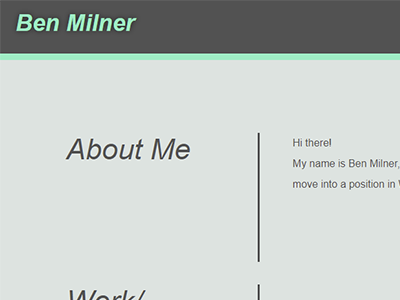
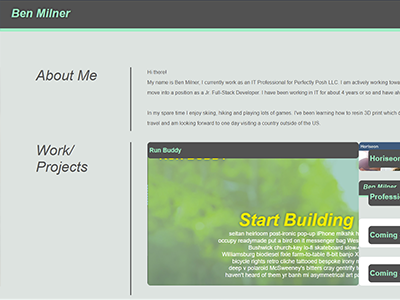
finished styling the work section

diff --git a/assets/css/style.css b/assets/css/style.css
@@ -16,6 +16,7 @@ body {
     background-color: #dce3e0;
 }
 
+/* header */
 header {
     display: flex;
     justify-content: space-between;
@@ -70,6 +71,7 @@ header nav ul li a:hover {
     text-decoration: none;
 }
 
+/* main */
 main  {
     display: flex;
     flex-direction: column;
@@ -92,6 +94,7 @@ main  {
     border-right: solid 3px;
 }
 
+/* content sections */
 #about-me, #work, #contact {
     display: flex;
     margin: 1%;
@@ -117,66 +120,84 @@ main  {
     box-shadow: 0 0 10px rgba(0, 0, 0, 0.5);
 }
 
-/* #work {
+.big-title {
+    display:flex;
+    flex-wrap: wrap;
+    background-size: 120%;
+    justify-content: left;
+    align-items: center;
+    padding: 0 0 10px 30px;
+    font-size:35px;
+    border: solid var(--secondary-color) 3px;
+    border-radius: 10px;
+}
+
+.beeg-title h3 {
+    display: flex;
+    background-color: var(--tertiary-color);
+    padding: 10px;
+    border-radius: 10px;
+    font-size: 30px;
+}
+
+.beeg-card {
+    width: 75%;
+    margin-bottom: 30px;
+    background-image: url("../images/run-buddy.png");
+    border-radius: 10px;
+}
+
+#work h3, h4, a {
+    color: var(--primary-color);
+    text-decoration: none;
+}
+
+.work-cards {
     display: flex;
     flex-wrap: wrap;
-}
-
-.work-content {
-    display: flex;
     justify-content: space-between;
+    width: 75%;
+    padding: 1%;
 }
 
-.images {
-    display: flex;
-    justify-content: flex-end;
+.work-cards h3 {
+    background-color: var(--tertiary-color);
+    padding: 5px;
+    border-radius: 10px;
 }
 
-.beeg {
-    display: flex;
-    align-self: center;
-    width: 600px;
-    height: 400px;
-}
-
-.smol {
-    display: flex;
+.title {
+    display:flex;
+    flex-wrap: wrap;
     width: 400px;
-    height: 300px;
+    height: 150px;
+    padding: 10px;
+    justify-content: left;
+    align-items:center;
+    font-size: 20px;
+    border-radius: 10px;
+    margin-bottom: 30px;
 }
 
-.smol div {
-    align-self: center;
-    margin: 2%;
+#card1{
+    background-image: url("../images/horiseon.png");
+    background-size: 100%;
 }
 
-#work img{
-    display: flex;
-    align-self: center;
-    flex-flow: row wrap;
-    border: solid 4px var(--secondary-color);
-    border-radius: 20px;
-    box-shadow: 0 0 10px rgba(0, 0, 0, 0.5);
-    opacity: 50%;
-    margin: 0 30px;
+#card2{
+    background-image: url("../images/professional-portfolio.png");
+    background-size: 100%;
 }
 
-#work img:hover {
-    opacity: 100%;
+#card3{
+    background-color: white;
+    background-size: 100%;
 }
 
-.info p {
-    text-decoration: none;
+#card4{
+    background-color: white;
+    background-size: 100%;
 }
-
-.info p a {
-    color: inherit;
-    text-decoration: none;
-}
-
-.info p a:hover {
-    text-decoration: underline;
-} */
 
 footer {
     display: flex;
@@ -187,8 +208,23 @@ footer {
     padding: 40px 35px;
 }
 
-/* screen size smaller than 970px */
-@media screen and (max-width: 970px){
+#contact .content {
+    display: flex;
+    padding: 3%;
+    justify-content: space-between;
+}
+
+#contact .content a h4 {
+    color: var(--primary-color);
+    background-color: var(--tertiary-color);
+    border-radius: 10px;
+    margin: 30%;
+    font-size: 30px;
+    
+}
+
+/* media queries */
+@media screen and (max-width: 980px){
     header {
         padding-bottom: 0;
         justify-content: center;
@@ -234,4 +270,18 @@ footer {
     #about-me .bio p {
         margin: 3%;
     }
+
+    .beeg-card, .work-cards {
+        margin-top: 2%;
+    }
 }
+
+@media screen and (max-width: 768px) {
+
+}
+
+@media screen and (max-width: 575px) {
+
+}
+
+/* media queries end */

diff --git a/index.html b/index.html
@@ -56,7 +56,7 @@
             <img src="./assets/images/ben-milner.png" alt="Ben Milner" height="200px" width="200px"/>
         </div>
     </section>
-    <!-- about me section end -->
+    <!-- about me end -->
 
     <!-- work section -->
     <section id="work">
@@ -66,7 +66,7 @@
 
         <!-- larger project -->
         <div class="content">
-            <div class="beeg">
+            <div class="beeg-card">
                 <a href="https://bmilner88.github.io/run-buddy/">
                     <div class="beeg-title">
                         <h3>Run Buddy</h3>
@@ -99,56 +99,21 @@
             </div>
         </div>
     </section>
-    <!-- work section end -->
+    <!-- work end -->
 
-
-        <!-- <div class="work-content">
-            <div class="images">
-                <div class="beeg">
-                    <div>
-                        <a href="https://bmilner88.github.io/run-buddy/">
-                            <img src="./assets/images/run-buddy.png" alt="Run Buddy Project Page" />
-                        </a>
-                    </div>
-                </div>
-    
-                <div class="smol">
-                    <div>
-                        <a href="https://bmilner88.github.io/c1-horiseon/">
-                            <img src="./assets/images/horiseon.png" alt="Horiseon Project Page" />
-                        </a>
-                    </div>
-        
-                    <div>
-                        <a href="https://bmilner88.github.io/c2-professional-portfolio/">
-                            <img src="./assets/images/professional-portfolio.png" alt="Professional Portfolio Project Page" />
-                        </a>
-                    </div>
-                </div>
-            </div>
-        </div> -->
-    
-
+    <!-- contact section -->
     <section id="contact">
         <div class="section-title">
             <h2>Contact</br>Info</h2>
         </div>
 
-        <div class="info">
+        <div class="content">
             <a href="mailto:bmilner88@gmail.com"><h4>Email</h4></a>
             <a href="https://github.com/Bmilner88"><h4>GitHub</h4></a>
-                <!-- <p>
-                    Phone: 555-555-5555
-                </br>
-                    Email: bmilner88@gmail.com
-                </br>
-                    GitHub: <a href="https://github.com/Bmilner88">Bmilner88</a>
-                </br>
-                    LinkedIn: <a href="https://www.linkedin.com/in/ben-milner-b20171142/">Ben Milner</a>
-                </br>
-                </p> -->
-            </div>
+            <a href="https://www.linkedin.com/in/ben-milner-b20171142/"><h4>LinkedIn</h4></a>
+        </div>
     </section>
+    <!-- content end -->
 </main>
 
 <footer></footer>
